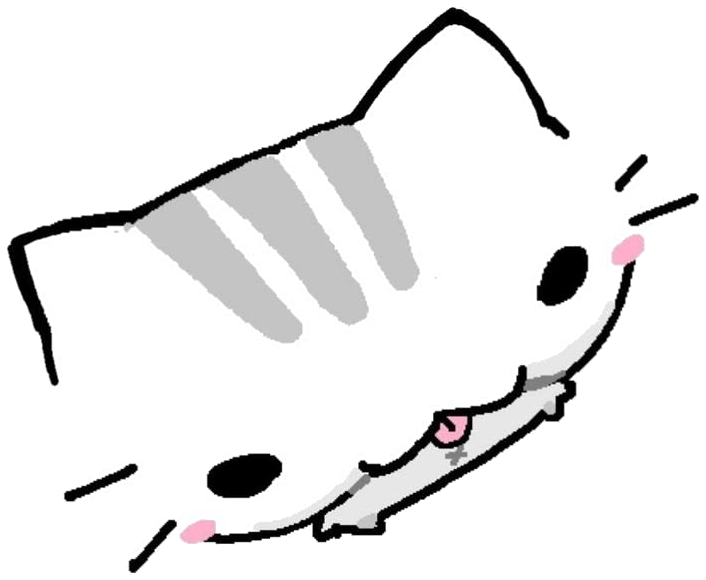
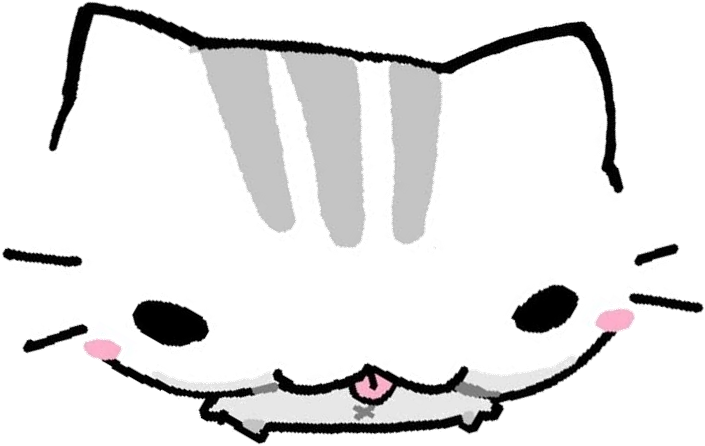
feat(blog): replace peek-cat asset with upright face and update CSS for over-wall peeking

diff --git a/src/pages/Blog.tsx b/src/pages/Blog.tsx
@@ -416,13 +416,13 @@ export function Blog() {
               /* Peeking Cat Hover Effect */
               .peek-cat {
                 position: absolute;
-                width: 170px;
+                width: 200px;
                 height: auto;
-                left: 24px;
-                bottom: calc(100% - 50px);
+                left: -6px;
+                bottom: calc(100% - 10px);
                 z-index: 0;
                 pointer-events: none;
-                transform: translateY(130px);
+                transform: translateY(150px);
                 opacity: 1;
                 will-change: transform;
                 transition: transform 0.5s ease-in;
@@ -430,7 +430,6 @@ export function Blog() {
 
               .peek-cat-img {
                 transform: none;
-                transform-origin: center;
               }
 
               .profile-wrap:hover .peek-cat,
@@ -440,9 +439,7 @@ export function Blog() {
               }
 
               @media (hover: none) {
-                .profile-wrap:hover .peek-cat {
-                  transform: translateY(130px);
-                }
+                .profile-wrap:hover .peek-cat { transform: translateY(150px); }
                 .profile-wrap.is-active .peek-cat {
                   transform: translateY(0);
                   transition: transform 0.6s cubic-bezier(0.34, 1.3, 0.64, 1);
